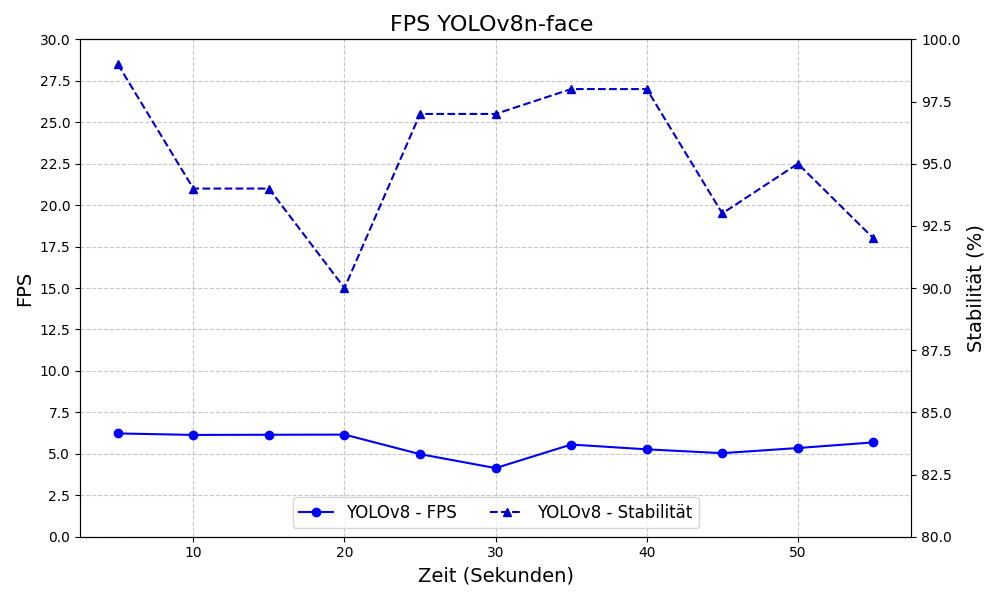
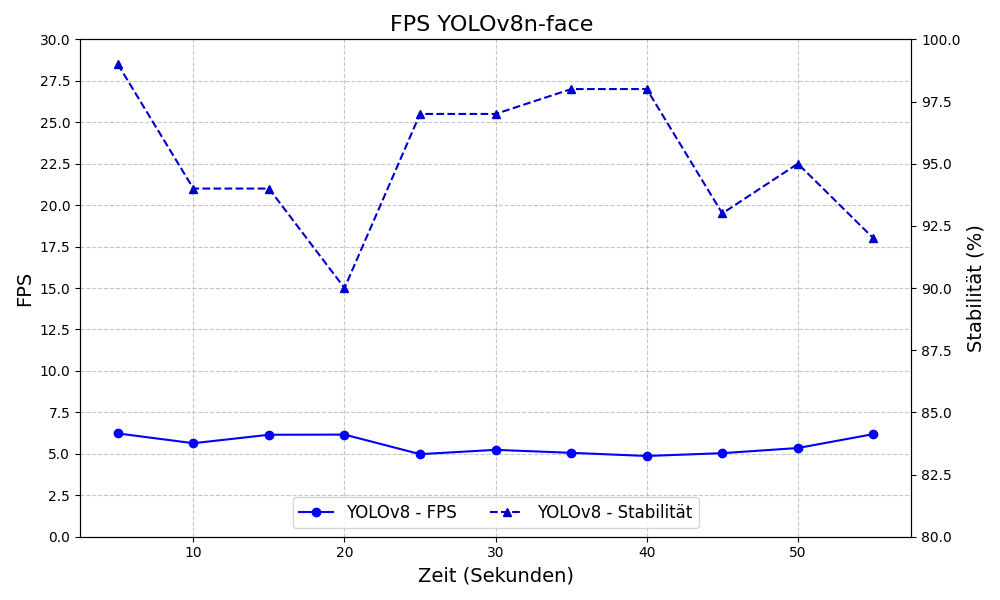
fps yolo diagramm

Changed region(s): [[0.434, 0.72, 0.713, 0.78], [0.124, 0.72, 0.279, 0.75], [0.806, 0.72, 0.899, 0.75]]

diff --git a/src/final_report/diagrams/fps_yolo_detection.py b/src/final_report/diagrams/fps_yolo_detection.py
@@ -1,0 +1,21 @@
+import matplotlib.pyplot as plt
+import numpy as np
+
+# Für Liniendiagramm (FPS über Zeit)
+times = [5, 10, 15, 20, 25, 30, 35, 40, 45, 50, 55]
+fps_v8 = [6.23, 5.64, 6.15, 6.16, 4.98, 5.24, 5.06, 4.87, 5.04, 5.35, 6.19]
+
+# --- Liniendiagramm erstellen ---
+
+fig, ax = plt.subplots(figsize=(10, 6))
+
+ax.plot(times, fps_v8, marker='o', linestyle='-', color='skyblue', label='YOLOv8-face')
+
+ax.set_xlabel('Zeit (Sekunden)')
+ax.set_ylabel('FPS')
+ax.set_title('FPS-Verlauf über Zeit')
+ax.grid(True, linestyle='--', alpha=0.7)
+ax.legend()
+
+plt.tight_layout()
+plt.savefig('src/final_report/data/yolo_FPS_ueber_Zeit.png')

diff --git a/src/final_report/diagrams/fps_yolo_vs_mediapipe_detection.py b/src/final_report/diagrams/fps_yolo_vs_mediapipe_detection.py
@@ -4,7 +4,7 @@ import numpy as np
 times = [5, 10, 15, 20, 25, 30, 35, 40, 45, 50, 55]
 
 # YOLOv8-face
-fps_v8 = [6.23, 6.14, 6.15, 6.16, 4.98, 4.14, 5.56, 5.27, 5.04, 5.35, 5.69]
+fps_v8 = [6.23, 5.64, 6.15, 6.16, 4.98, 5.24, 5.06, 4.87, 5.04, 5.35, 6.19]
 stability_v8 = [99, 94, 94, 90, 97, 97, 98, 98, 93, 95, 92]
 
 # --- Liniendiagramm erstellen ---
